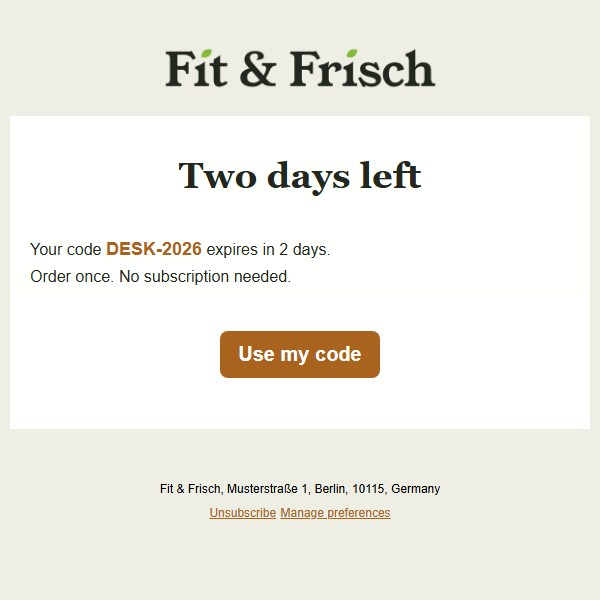
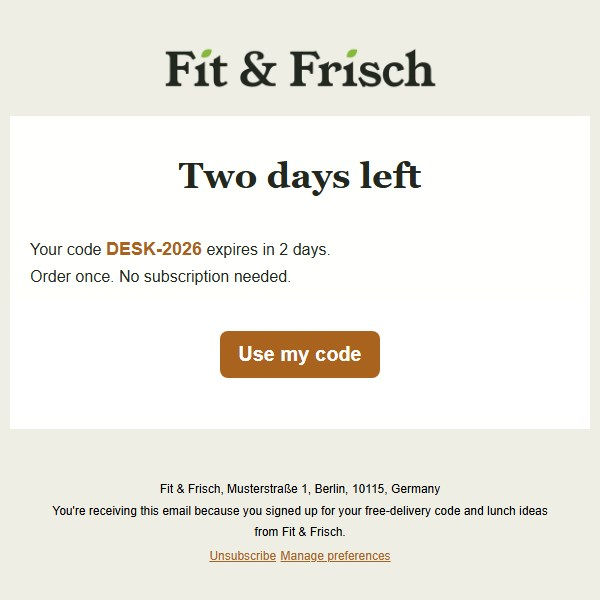
Fit & Frisch: explain why each marketing email arrives
FF 02-05 and FF 07-09 get a line above the unsubscribe links saying the
contact signed up for the free-delivery code and lunch ideas. The FF 05
preview and the FF 05 and FF 07 thumbnails show the new footer.

Changed region(s): [[0.09, 0.84, 0.93, 0.96]]

diff --git a/assets/fitfrisch/emails/ff02.html b/assets/fitfrisch/emails/ff02.html
@@ -269,6 +269,9 @@ img{-ms-interpolation-mode:bicubic}p,a,li,td,blockquote{mso-line-height-rule:exa
         <p style="font-family:Arial, sans-serif;font-size:12px;font-weight:normal;text-decoration:none;font-style:normal;color:#54594e">
           Fit &amp; Frisch, Musterstraße 1, Berlin,  10115, Germany
         </p>
+        <p style="font-family:Arial, sans-serif;font-size:12px;font-weight:normal;text-decoration:none;font-style:normal;color:#54594e">
+          You're receiving this email because you signed up for your free-delivery code and lunch ideas from Fit &amp; Frisch.
+        </p>
         <p>
           <a href="#" style="font-family:Arial, sans-serif; font-size:12px; color:#54594e; font-weight:normal; text-decoration:underline; font-style:normal">Unsubscribe</a>
           <a href="#" style="font-family:Arial, sans-serif; font-size:12px; color:#54594e; font-weight:normal; text-decoration:underline; font-style:normal">Manage preferences</a>

diff --git a/assets/fitfrisch/emails/ff03.html b/assets/fitfrisch/emails/ff03.html
@@ -412,6 +412,9 @@ img{-ms-interpolation-mode:bicubic}p,a,li,td,blockquote{mso-line-height-rule:exa
         <p style="font-family:Arial, sans-serif;font-size:12px;font-weight:normal;text-decoration:none;font-style:normal;color:#000001">
           Fit &amp; Frisch, Musterstraße 1, Berlin,  10115, Germany
         </p>
+        <p style="font-family:Arial, sans-serif;font-size:12px;font-weight:normal;text-decoration:none;font-style:normal;color:#000001">
+          You're receiving this email because you signed up for your free-delivery code and lunch ideas from Fit &amp; Frisch.
+        </p>
         <p>
           <a href="#" style="font-family:Arial, sans-serif; font-size:12px; color:#a9631f; font-weight:normal; text-decoration:underline; font-style:normal">Unsubscribe</a>
           <a href="#" style="font-family:Arial, sans-serif; font-size:12px; color:#a9631f; font-weight:normal; text-decoration:underline; font-style:normal">Manage preferences</a>

diff --git a/assets/fitfrisch/emails/ff04.html b/assets/fitfrisch/emails/ff04.html
@@ -343,6 +343,9 @@ img{-ms-interpolation-mode:bicubic}p,a,li,td,blockquote{mso-line-height-rule:exa
         <p style="font-family:Arial, sans-serif;font-size:12px;font-weight:normal;text-decoration:none;font-style:normal;color:#000001">
           Fit &amp; Frisch, Musterstraße 1, Berlin,  10115, Germany
         </p>
+        <p style="font-family:Arial, sans-serif;font-size:12px;font-weight:normal;text-decoration:none;font-style:normal;color:#000001">
+          You're receiving this email because you signed up for your free-delivery code and lunch ideas from Fit &amp; Frisch.
+        </p>
         <p>
           <a href="#" style="font-family:Arial, sans-serif; font-size:12px; color:#a9631f; font-weight:normal; text-decoration:underline; font-style:normal">Unsubscribe</a>
           <a href="#" style="font-family:Arial, sans-serif; font-size:12px; color:#a9631f; font-weight:normal; text-decoration:underline; font-style:normal">Manage preferences</a>

diff --git a/assets/fitfrisch/emails/ff05.html b/assets/fitfrisch/emails/ff05.html
@@ -298,6 +298,9 @@ img{-ms-interpolation-mode:bicubic}p,a,li,td,blockquote{mso-line-height-rule:exa
         <p style="font-family:Arial, sans-serif;font-size:12px;font-weight:normal;text-decoration:none;font-style:normal;color:#000001">
           Fit &amp; Frisch, Musterstraße 1, Berlin,  10115, Germany
         </p>
+        <p style="font-family:Arial, sans-serif;font-size:12px;font-weight:normal;text-decoration:none;font-style:normal;color:#000001">
+          You're receiving this email because you signed up for your free-delivery code and lunch ideas from Fit &amp; Frisch.
+        </p>
         <p>
           <a href="#" style="font-family:Arial, sans-serif; font-size:12px; color:#a9631f; font-weight:normal; text-decoration:underline; font-style:normal">Unsubscribe</a>
           <a href="#" style="font-family:Arial, sans-serif; font-size:12px; color:#a9631f; font-weight:normal; text-decoration:underline; font-style:normal">Manage preferences</a>

diff --git a/assets/fitfrisch/emails/ff07.html b/assets/fitfrisch/emails/ff07.html
@@ -358,6 +358,9 @@ img{-ms-interpolation-mode:bicubic}p,a,li,td,blockquote{mso-line-height-rule:exa
         <p style="font-family:Arial, sans-serif;font-size:16px;font-weight:normal;text-decoration:none;font-style:normal;color:#000001">
           Fit &amp; Frisch, Musterstraße 1, Berlin,  10115, Germany
         </p>
+        <p style="font-family:Arial, sans-serif;font-size:16px;font-weight:normal;text-decoration:none;font-style:normal;color:#000001">
+          You're receiving this email because you signed up for your free-delivery code and lunch ideas from Fit &amp; Frisch.
+        </p>
         <p>
           <a href="#" style="font-family:Arial, sans-serif; font-size:14px; color:#a9631f; font-weight:normal; text-decoration:underline; font-style:normal">Unsubscribe</a>
           <a href="#" style="font-family:Arial, sans-serif; font-size:14px; color:#a9631f; font-weight:normal; text-decoration:underline; font-style:normal">Manage preferences</a>

diff --git a/assets/fitfrisch/emails/ff08.html b/assets/fitfrisch/emails/ff08.html
@@ -307,6 +307,9 @@ img{-ms-interpolation-mode:bicubic}p,a,li,td,blockquote{mso-line-height-rule:exa
         <p style="font-family:Arial, sans-serif;font-size:12px;font-weight:normal;text-decoration:none;font-style:normal;color:#000001">
           Fit &amp; Frisch, Musterstraße 1, Berlin,  10115, Germany
         </p>
+        <p style="font-family:Arial, sans-serif;font-size:12px;font-weight:normal;text-decoration:none;font-style:normal;color:#000001">
+          You're receiving this email because you signed up for your free-delivery code and lunch ideas from Fit &amp; Frisch.
+        </p>
         <p>
           <a href="#" style="font-family:Arial, sans-serif; font-size:12px; color:#a9631f; font-weight:normal; text-decoration:underline; font-style:normal">Unsubscribe</a>
           <a href="#" style="font-family:Arial, sans-serif; font-size:12px; color:#a9631f; font-weight:normal; text-decoration:underline; font-style:normal">Manage preferences</a>

diff --git a/assets/fitfrisch/emails/ff09.html b/assets/fitfrisch/emails/ff09.html
@@ -333,6 +333,9 @@ img{-ms-interpolation-mode:bicubic}p,a,li,td,blockquote{mso-line-height-rule:exa
         <p style="font-family:Arial, sans-serif;font-size:12px;font-weight:normal;text-decoration:none;font-style:normal;color:#000001">
           Fit &amp; Frisch, Musterstraße 1, Berlin,  10115, Germany
         </p>
+        <p style="font-family:Arial, sans-serif;font-size:12px;font-weight:normal;text-decoration:none;font-style:normal;color:#000001">
+          You're receiving this email because you signed up for your free-delivery code and lunch ideas from Fit &amp; Frisch.
+        </p>
         <p>
           <a href="#" style="font-family:Arial, sans-serif; font-size:12px; color:#a9631f; font-weight:normal; text-decoration:underline; font-style:normal">Unsubscribe</a>
           <a href="#" style="font-family:Arial, sans-serif; font-size:12px; color:#a9631f; font-weight:normal; text-decoration:underline; font-style:normal">Manage preferences</a>
